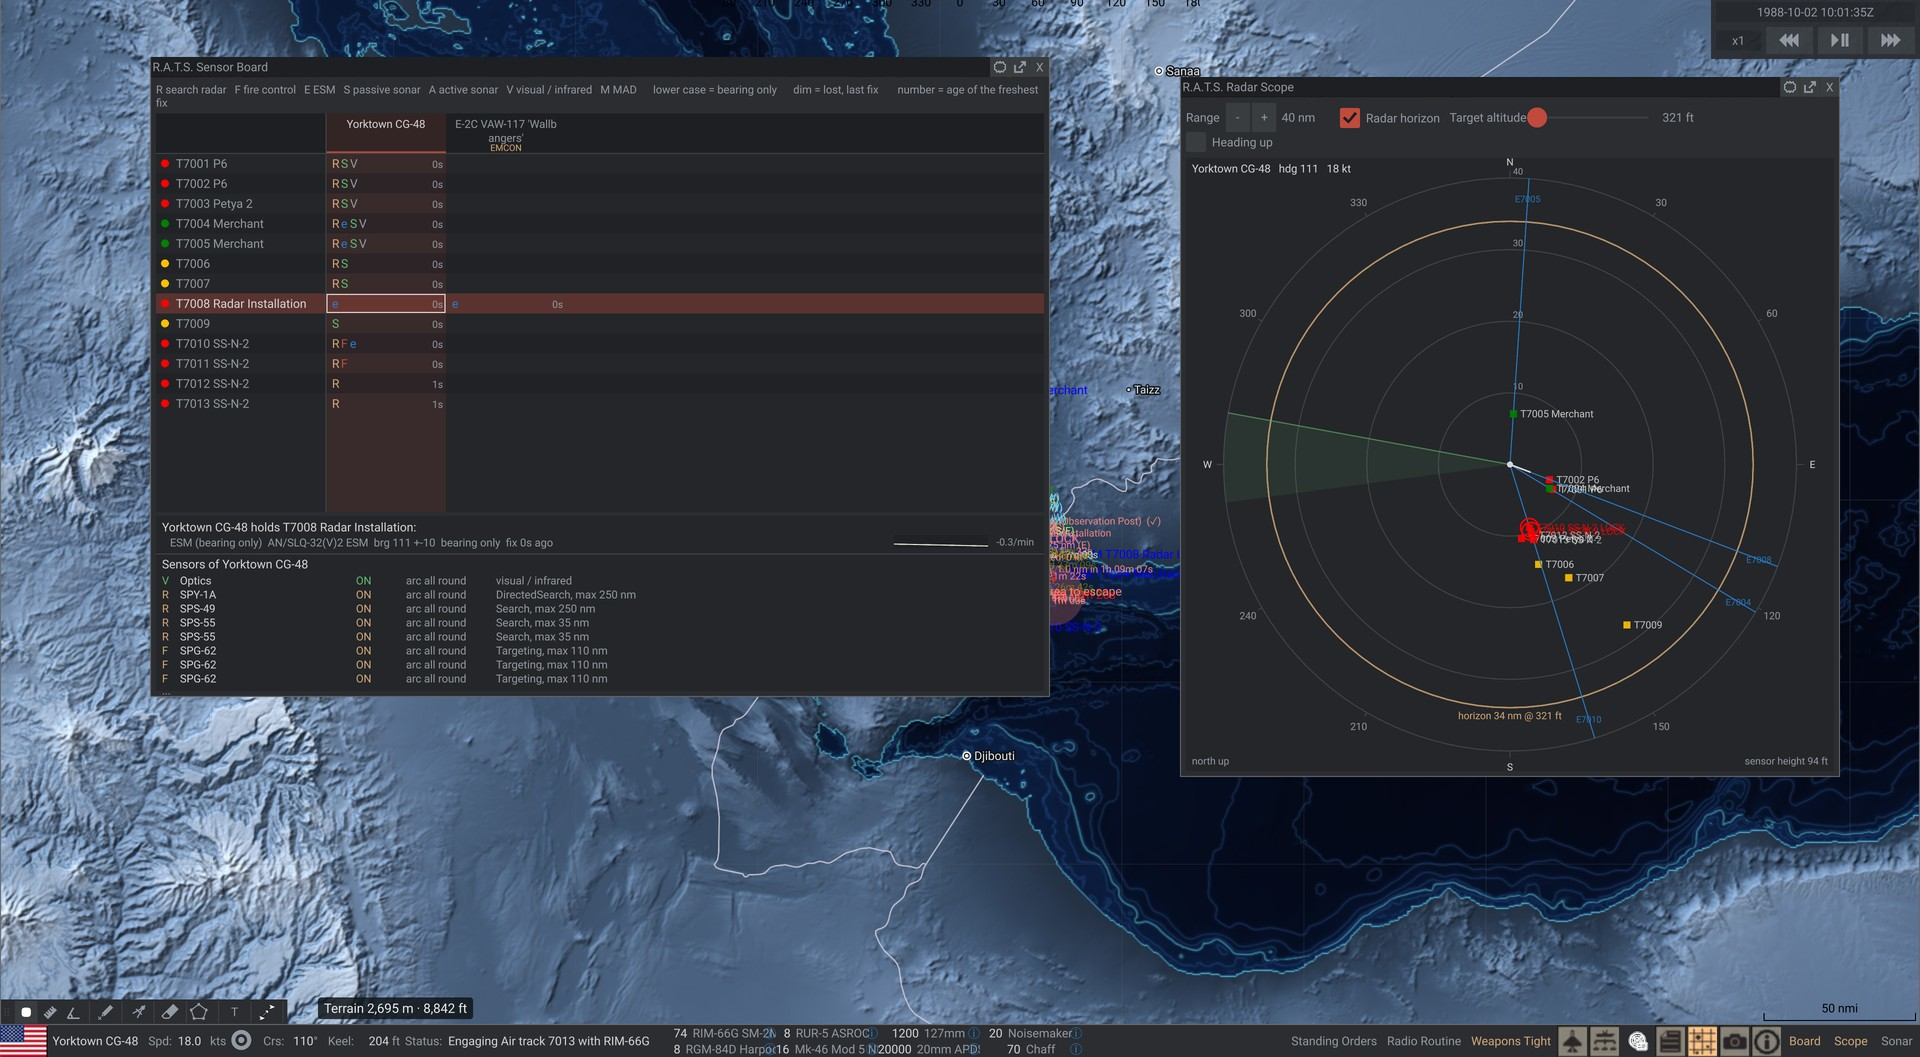
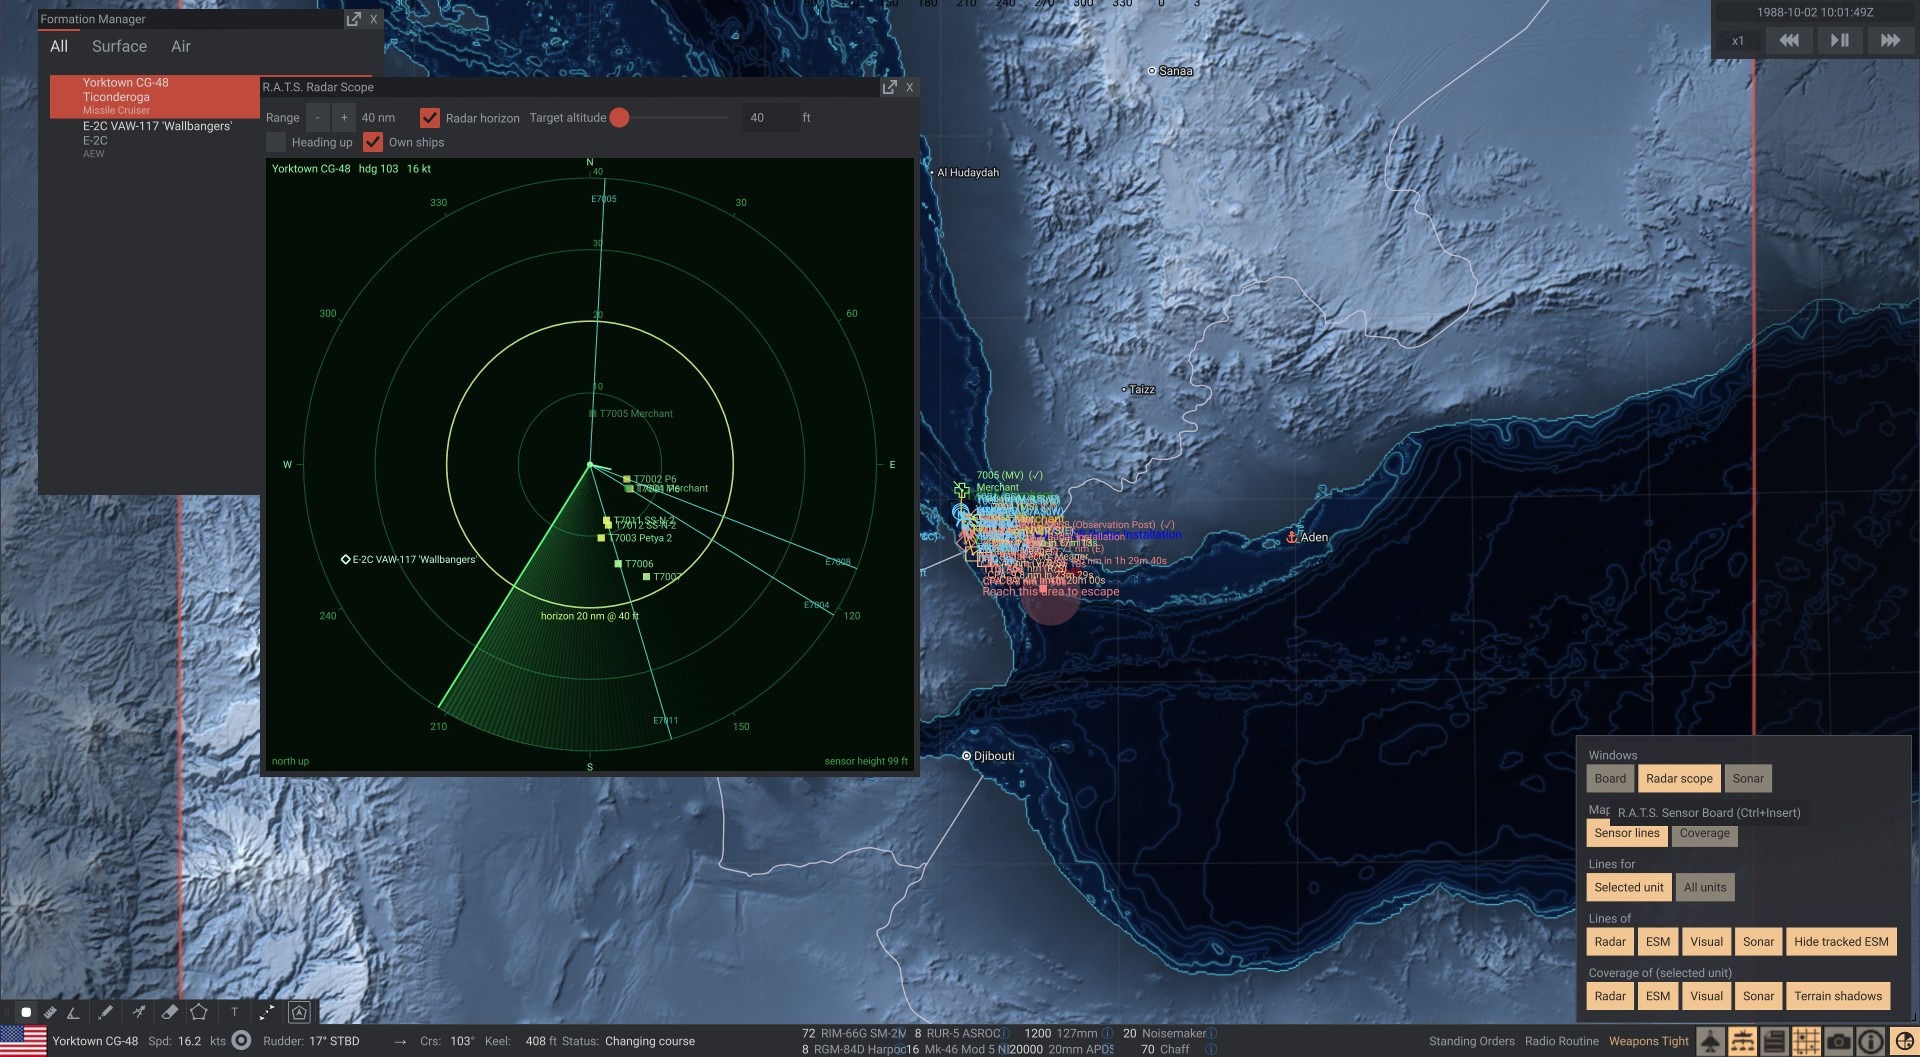
0.4.0: one bottom-bar button with a flyout, click to jump on the radar, snappier map layers; run on globe beta 261107

diff --git a/src/SeaPowerSensorViews/Plugin.cs b/src/SeaPowerSensorViews/Plugin.cs
@@ -18,7 +18,7 @@ namespace SeaPowerSensorViews;
 public class Plugin : IAnchorChainMod
 {
     public const string Guid = "dev.sewerlabs.seapowersensorviews";
-    public const string Version = "0.3.0";
+    public const string Version = "0.4.0";
 
 #if FLATMAP
     // Anchor Chain skips a plugin whose GUID it has already seen, so the two builds register under different ones.

diff --git a/README.md b/README.md
@@ -6,7 +6,7 @@ A mod for [Sea Power: Naval Combat in the Missile Age](https://store.steampowere
 units sees which contact with which sensor**, in three windows that look and behave like the game's own - and pop out to a second
 monitor with *R.A.T.S. Pop-Out Windows*. Requires [Anchor Chain](https://steamcommunity.com/sharedfiles/filedetails/?id=3380210757).
 
-**Status: 0.3.0, selected-only lines, in-game settings, globe windows fixed** ([Workshop](https://steamcommunity.com/sharedfiles/filedetails/?id=3833019654)). Run in the game on 0.8.7 (flat map) on 2026-11-03: windows, bar buttons, sensor lines, coverage, cursors,
+**Status: 0.4.0, one button with a flyout, click to jump on the radar, snappier map layers** ([Workshop](https://steamcommunity.com/sharedfiles/filedetails/?id=3833019654)). 0.4.0 was run in the game on the 3D-globe beta (build 261107) on 2026-11-09: the bottom-bar button and its flyout, the windows, the map switches, coverage, clicks on the radar scope. Run in the game on 0.8.7 (flat map) on 2026-11-03: windows, bar buttons, sensor lines, coverage, cursors,
 bearing history, depth marks and the echo plot. 0.3.0 was run in the game on the 3D-globe beta (build 261107) on 2026-11-08: Options tab, all three windows, sensor lines, coverage, sonar seabed depth, zoom ([results](tools/perf-test/results-2026-11-08/README.md)). The 0.3.0 flat build for 0.8.7 passes the offline checks; 0.8.7 itself last ran 0.2.2.
 0.2.2 fixes the freeze when zooming in with the sensor lines on ([results](tools/perf-test/results-2026-11-07/README.md)); 0.2.1 was the performance update (map layers follow pans and zooms without a rebuild, scope sweep and cursors on their own layers),
 measured before/after in the game on 0.8.7: [tools/perf-test/results-2026-11-04](tools/perf-test/results-2026-11-04/README.md).

diff --git a/CHANGELOG.md b/CHANGELOG.md
@@ -1,6 +1,8 @@
 # Changelog
 
-## Unreleased
+## 0.4.0 – 2026-11-09 – one button with a flyout, click a contact on the radar to jump to it, snappier map layers
+
+Run in the game on the globe beta (build 261107) on 2026-11-09: the bottom-bar button and its flyout, the three windows from it, the map switches, coverage with terrain shadows, a click on a contact and on an own ship on the radar scope. The flat build for 0.8.7 passes the offline checks, not run in the game.
 
 - **Snappier map layers while panning.** Lines and coverage kept their last position once the view left the area they were cut to and waited for the next rebuild (up to 50 ms, and a frame late). They now keep moving with the map in any case, the cut area is a whole view size wide on each side, and what a transform cannot follow (a turning globe, a long pan) is rebuilt in the frame the map moved, about once per frame.
 - **Flyout is a panel on the map, not a popup** (the map stays usable around it); window chips follow the real window state; the flyout has the coverage options (radar, ESM, visual, sonar, terrain shadows).
